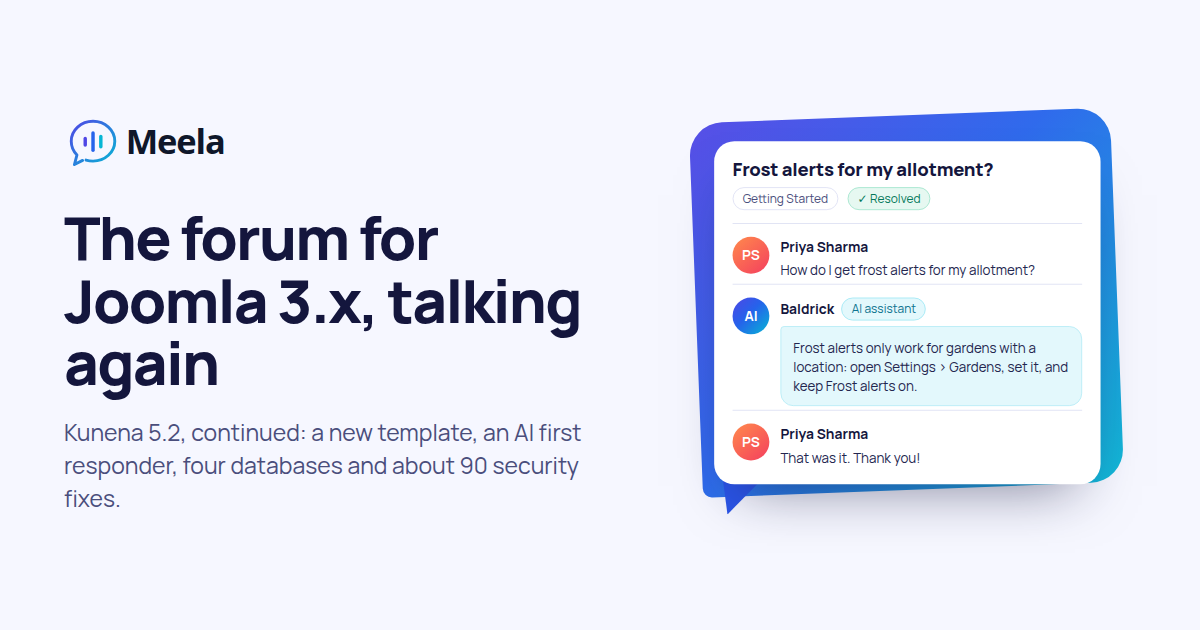
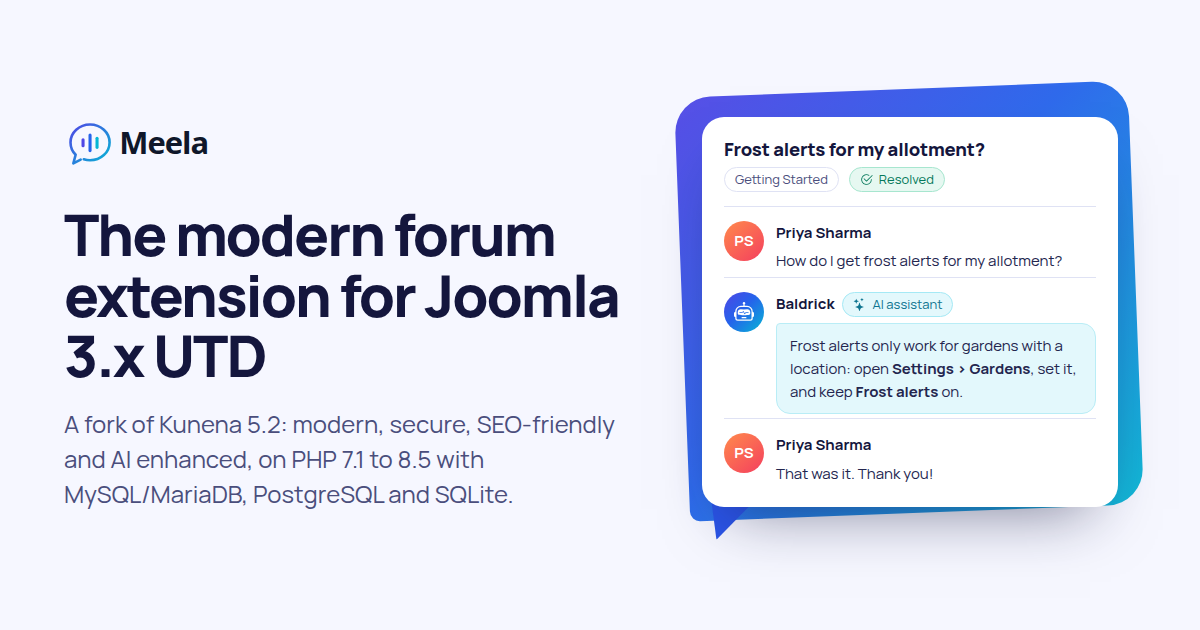
Sharing image with the new hero: the modern forum extension for Joomla 3.x UTD

diff --git a/index.html b/index.html
@@ -16,19 +16,19 @@
     <meta property="og:url" content="https://meela.joomlaworks.net/" />
     <meta property="og:title" content="Meela, the forum for Joomla 3.x" />
     <meta property="og:description" content="Meela is a forum for Joomla 3.x and Joomla 3.x UTD: the continuation of Kunena 5.2 with a new template, an AI first responder, MySQL, MariaDB, PostgreSQL and SQLite, PHP 7.1 to 8.5 and about 90 security fixes. Free and open source." />
-    <meta property="og:image" content="https://meela.joomlaworks.net/assets/og-image.png?v=20261118" />
+    <meta property="og:image" content="https://meela.joomlaworks.net/assets/og-image.png?v=20261119" />
     <meta property="og:image:type" content="image/png" />
     <meta property="og:image:width" content="1200" />
     <meta property="og:image:height" content="630" />
-    <meta property="og:image:alt" content="Meela, the forum for Joomla 3.x: a forum thread where Baldrick AI answers a member and the thread is marked resolved." />
+    <meta property="og:image:alt" content="Meela, the modern forum extension for Joomla 3.x UTD: a forum thread where Baldrick AI answers a member and the thread is marked resolved." />
 
     <!-- X (Twitter) -->
     <meta name="twitter:card" content="summary_large_image" />
     <meta name="twitter:site" content="@joomlaworks" />
     <meta name="twitter:title" content="Meela, the forum for Joomla 3.x" />
     <meta name="twitter:description" content="Meela is a forum for Joomla 3.x and Joomla 3.x UTD: the continuation of Kunena 5.2 with a new template, an AI first responder, MySQL, MariaDB, PostgreSQL and SQLite, PHP 7.1 to 8.5 and about 90 security fixes. Free and open source." />
-    <meta name="twitter:image" content="https://meela.joomlaworks.net/assets/og-image.png?v=20261118" />
-    <meta name="twitter:image:alt" content="Meela, the forum for Joomla 3.x: a forum thread where Baldrick AI answers a member and the thread is marked resolved." />
+    <meta name="twitter:image" content="https://meela.joomlaworks.net/assets/og-image.png?v=20261119" />
+    <meta name="twitter:image:alt" content="Meela, the modern forum extension for Joomla 3.x UTD: a forum thread where Baldrick AI answers a member and the thread is marked resolved." />
     <!-- Structured data (Google) -->
     <script type="application/ld+json">
     {
@@ -71,7 +71,7 @@
                 "license": "https://www.gnu.org/licenses/gpl-3.0.html",
                 "isAccessibleForFree": true,
                 "offers": { "@type": "Offer", "price": "0", "priceCurrency": "USD" },
-                "image": "https://meela.joomlaworks.net/assets/og-image.png?v=20261118",
+                "image": "https://meela.joomlaworks.net/assets/og-image.png?v=20261119",
                 "screenshot": [
                     "https://meela.joomlaworks.net/assets/shots/bk-index.webp",
                     "https://meela.joomlaworks.net/assets/shots/bk-baldrick-thread.webp",
@@ -87,7 +87,7 @@
     </script>
     <link rel="icon" href="images/logo/meela-icon-light.svg" type="image/svg+xml" />
     <link rel="preload" href="assets/fonts/manrope-latin.woff2" as="font" type="font/woff2" crossorigin="anonymous" />
-    <link rel="stylesheet" href="assets/css/site.css?t=20261118" />
+    <link rel="stylesheet" href="assets/css/site.css?t=20261119" />
     <script>document.documentElement.classList.add("js")</script>
 </head>
 
@@ -661,7 +661,7 @@
         <p id="viewerCaption"></p>
     </dialog>
 
-    <script src="assets/js/site.js?t=20261118" defer="defer"></script>
+    <script src="assets/js/site.js?t=20261119" defer="defer"></script>
     
     <!-- Google Analytics -->
     <script async src="https://www.googletagmanager.com/gtag/js?id=G-N3CP16H6X0"></script>
